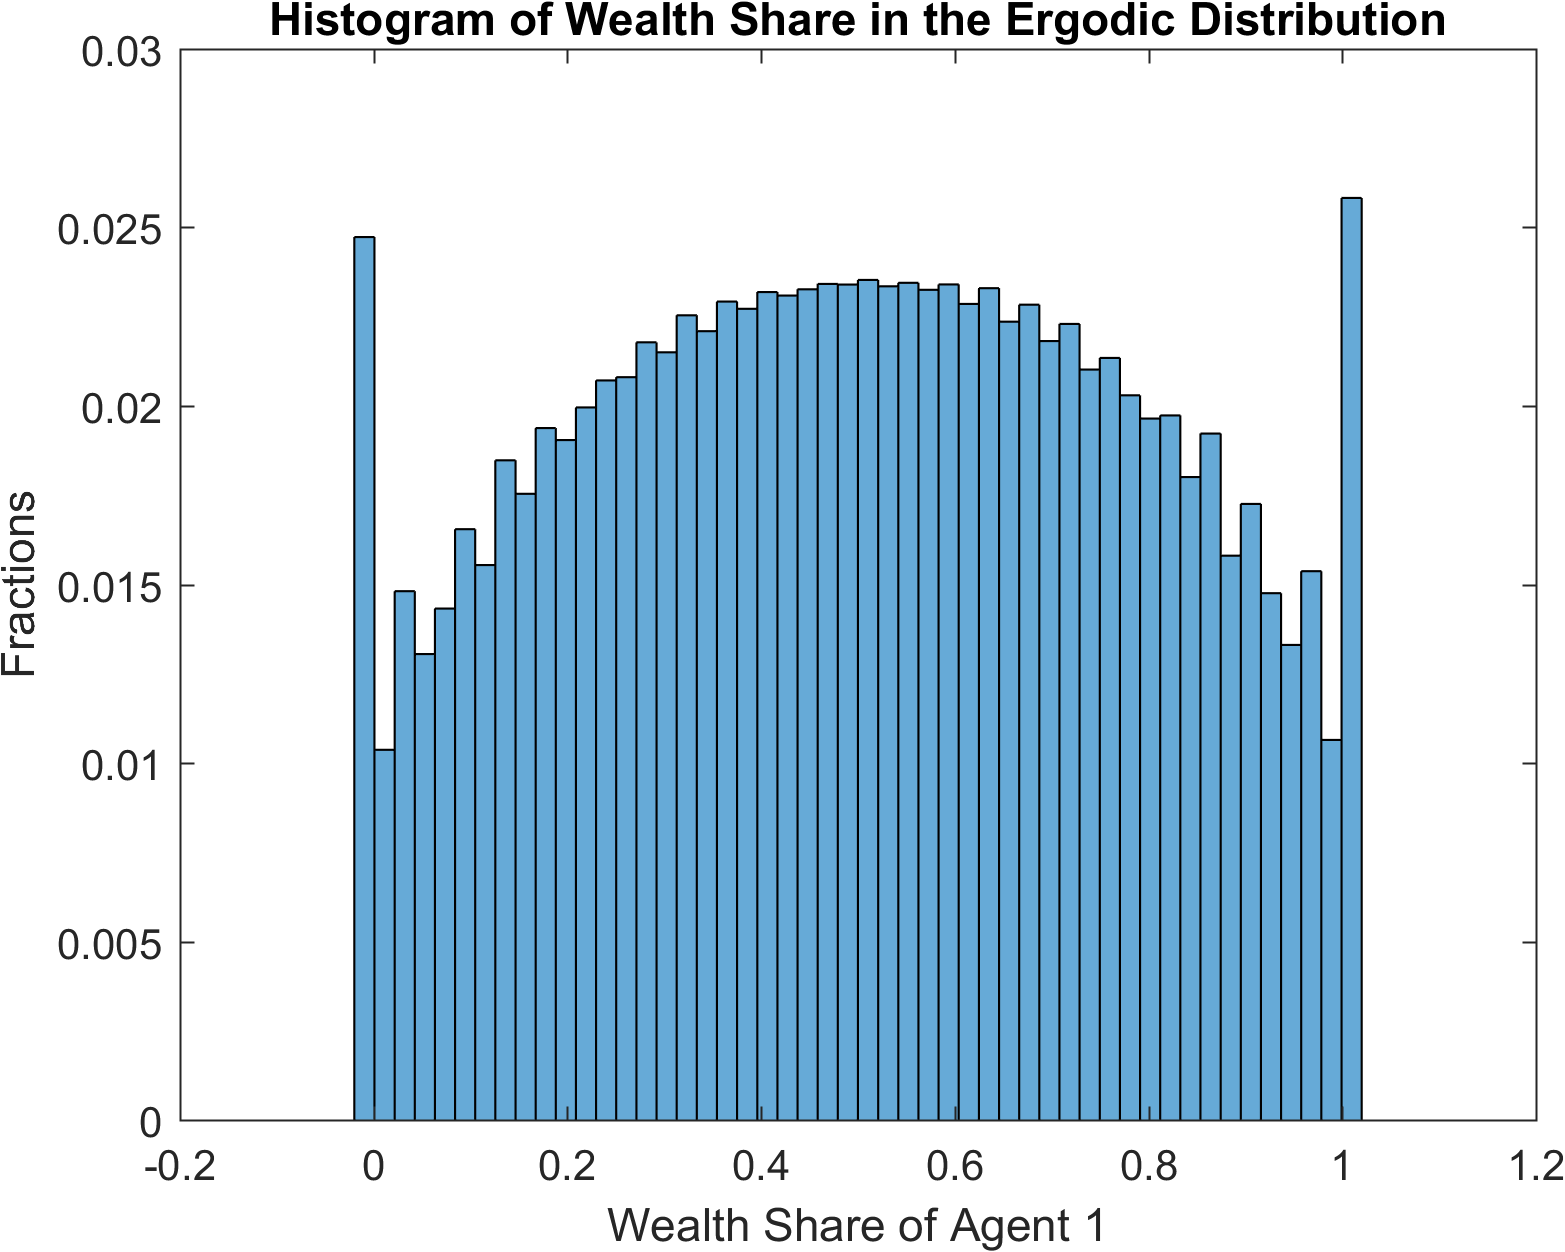
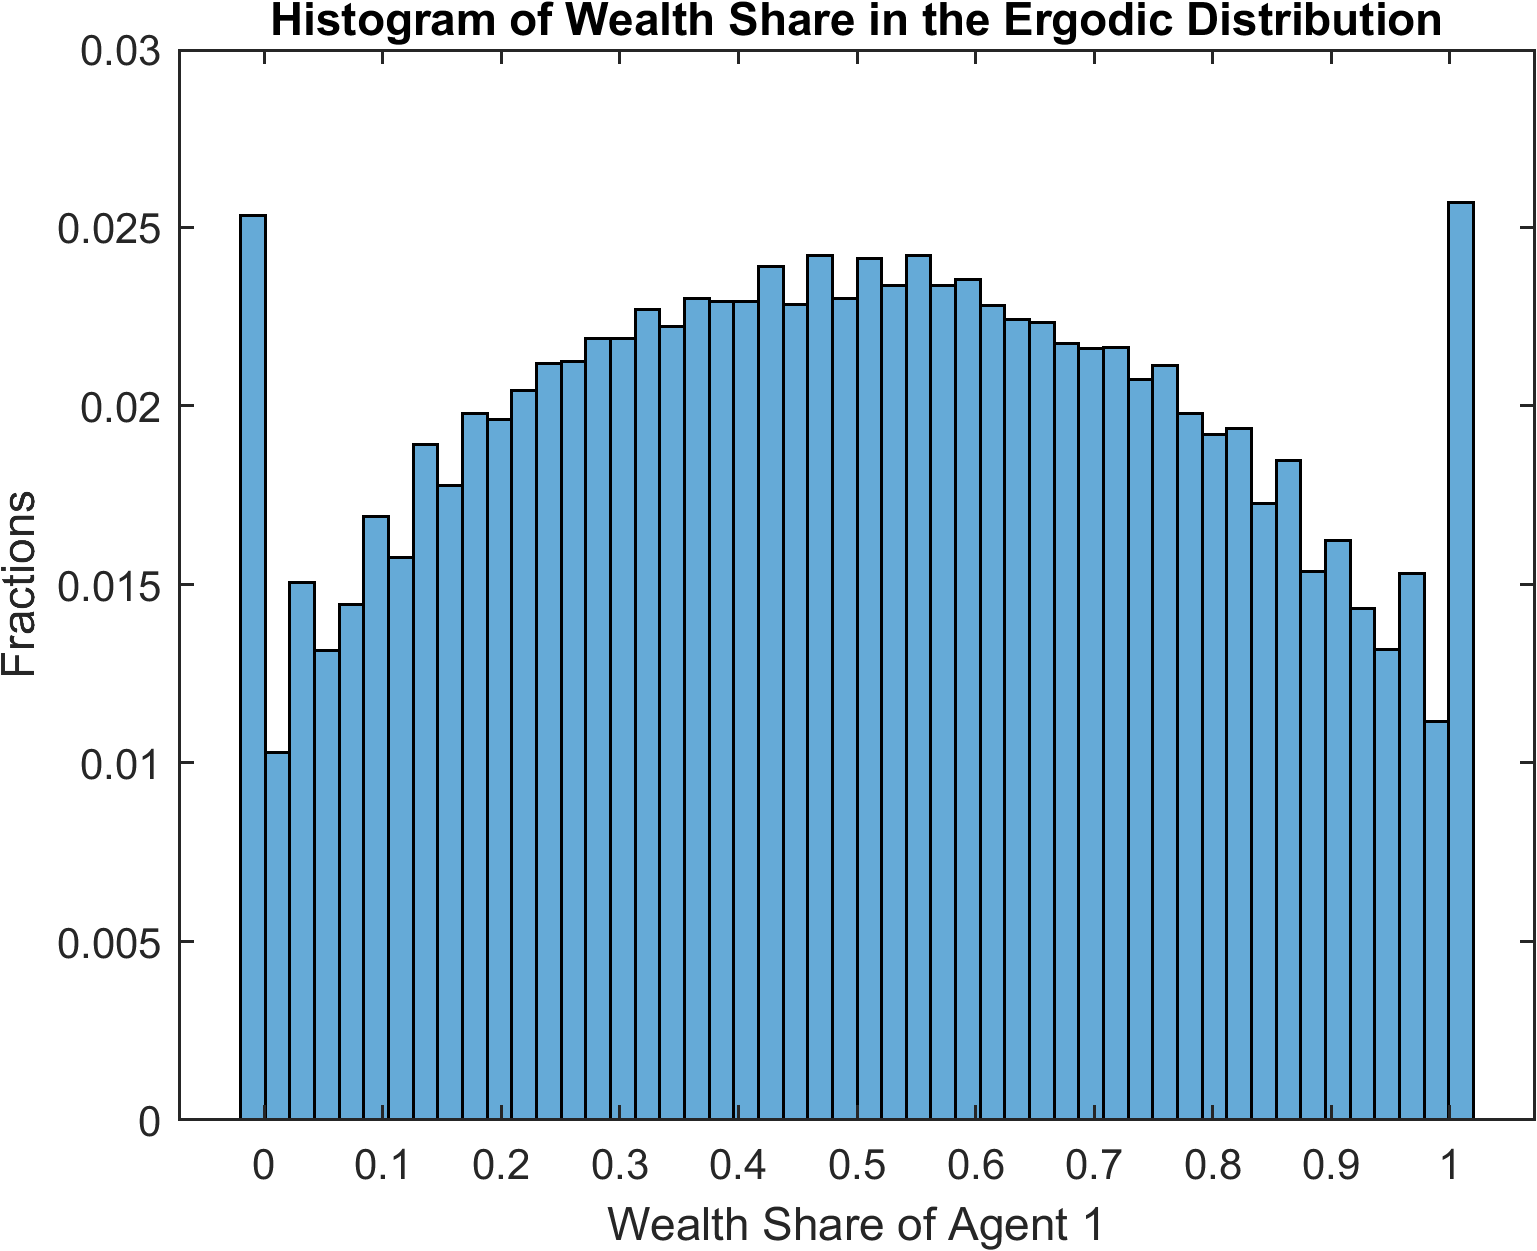
fix typo HL

Changed region(s): [[0.1561, 0.0312, 0.9993, 1.0], [0.0, 0.0312, 0.1249, 0.9353], [0.1561, 0.0, 0.9369, 0.0624]]

diff --git a/build/html/example/HL1996/HL1996.html b/build/html/example/HL1996/HL1996.html
@@ -512,25 +512,31 @@ positive probability in the model’s ergodic set as shown below.</p>
 <div class="highlight-text notranslate"><div class="highlight"><pre><span></span>&gt;&gt; SimuRslt = simulate_HL1996(IterRslt);
 Periods: 1000
 shock      w1      c1      c2      ps      pbequity_premium
-    1  0.7878  0.6058  0.5344    2.48  0.93240.001541
+    1  0.7879  0.6058  0.5344    2.48  0.93240.001541
+Elapsed time is 2.077381 seconds.
+Periods: 2000
+shock      w1      c1      c2      ps      pbequity_premium
+    1  0.7147  0.5925  0.5477   2.469  0.93220.001442
+Elapsed time is 1.478454 seconds.
 
 ...
 
-Periods: 50000
+Periods: 10000
 shock      w1      c1      c2      ps      pbequity_premium
-    6  0.8655  0.6628  0.4809   2.586  0.92510.002241
+    3  0.2948  0.5243  0.6318   2.553  0.92950.001643
+Elapsed time is 1.488598 seconds.
 </pre></div>
 </div>
 <p>And inspect the simulation results:</p>
 <div class="highlight-text notranslate"><div class="highlight"><pre><span></span>&gt;&gt; figure;
-histogram(SimuRslt.w1(:,10000:end),50,&#39;Normalization&#39;,&#39;probability&#39;);
+histogram(SimuRslt.w1(:,1000:end),50,&#39;Normalization&#39;,&#39;probability&#39;);
 title(&#39;Histogram of Wealth Share in the Ergodic Distribution&#39;);
 xlabel(&#39;Wealth Share of Agent 1&#39;);
 ylabel(&#39;Fractions&#39;);
 </pre></div>
 </div>
 <p>which produces</p>
-<a class="reference internal image-reference" href="../../_images/histogram_w11.png"><img alt="../../_images/histogram_w11.png" src="../../_images/histogram_w11.png" style="width: 626.0px; height: 500.8px;" /></a>
+<a class="reference internal image-reference" href="../../_images/histogram_w11.png"><img alt="../../_images/histogram_w11.png" src="../../_images/histogram_w11.png" style="width: 614.8000000000001px; height: 500.40000000000003px;" /></a>
 <p>The spikes in the ergodic distribution of wealth share at the two ends imply that the constraints are occasionally binding.</p>
 </div>
 <div class="section" id="consumption-share-as-endogenous-state">

diff --git a/source/example/HL1996/HL1996.rst b/source/example/HL1996/HL1996.rst
@@ -225,20 +225,26 @@ We can simulate the model using the converged policy functions contained in *Ite
     >> SimuRslt = simulate_HL1996(IterRslt);
     Periods: 1000
     shock      w1      c1      c2      ps      pbequity_premium
-        1  0.7878  0.6058  0.5344    2.48  0.93240.001541
+        1  0.7879  0.6058  0.5344    2.48  0.93240.001541
+    Elapsed time is 2.077381 seconds.
+    Periods: 2000
+    shock      w1      c1      c2      ps      pbequity_premium
+        1  0.7147  0.5925  0.5477   2.469  0.93220.001442
+    Elapsed time is 1.478454 seconds.
 
     ...
 
-    Periods: 50000
+    Periods: 10000
     shock      w1      c1      c2      ps      pbequity_premium
-        6  0.8655  0.6628  0.4809   2.586  0.92510.002241
+        3  0.2948  0.5243  0.6318   2.553  0.92950.001643
+    Elapsed time is 1.488598 seconds.
 
 And inspect the simulation results:
 
 .. code-block:: text
 
     >> figure;
-    histogram(SimuRslt.w1(:,10000:end),50,'Normalization','probability');
+    histogram(SimuRslt.w1(:,1000:end),50,'Normalization','probability');
     title('Histogram of Wealth Share in the Ergodic Distribution');
     xlabel('Wealth Share of Agent 1');
     ylabel('Fractions');
